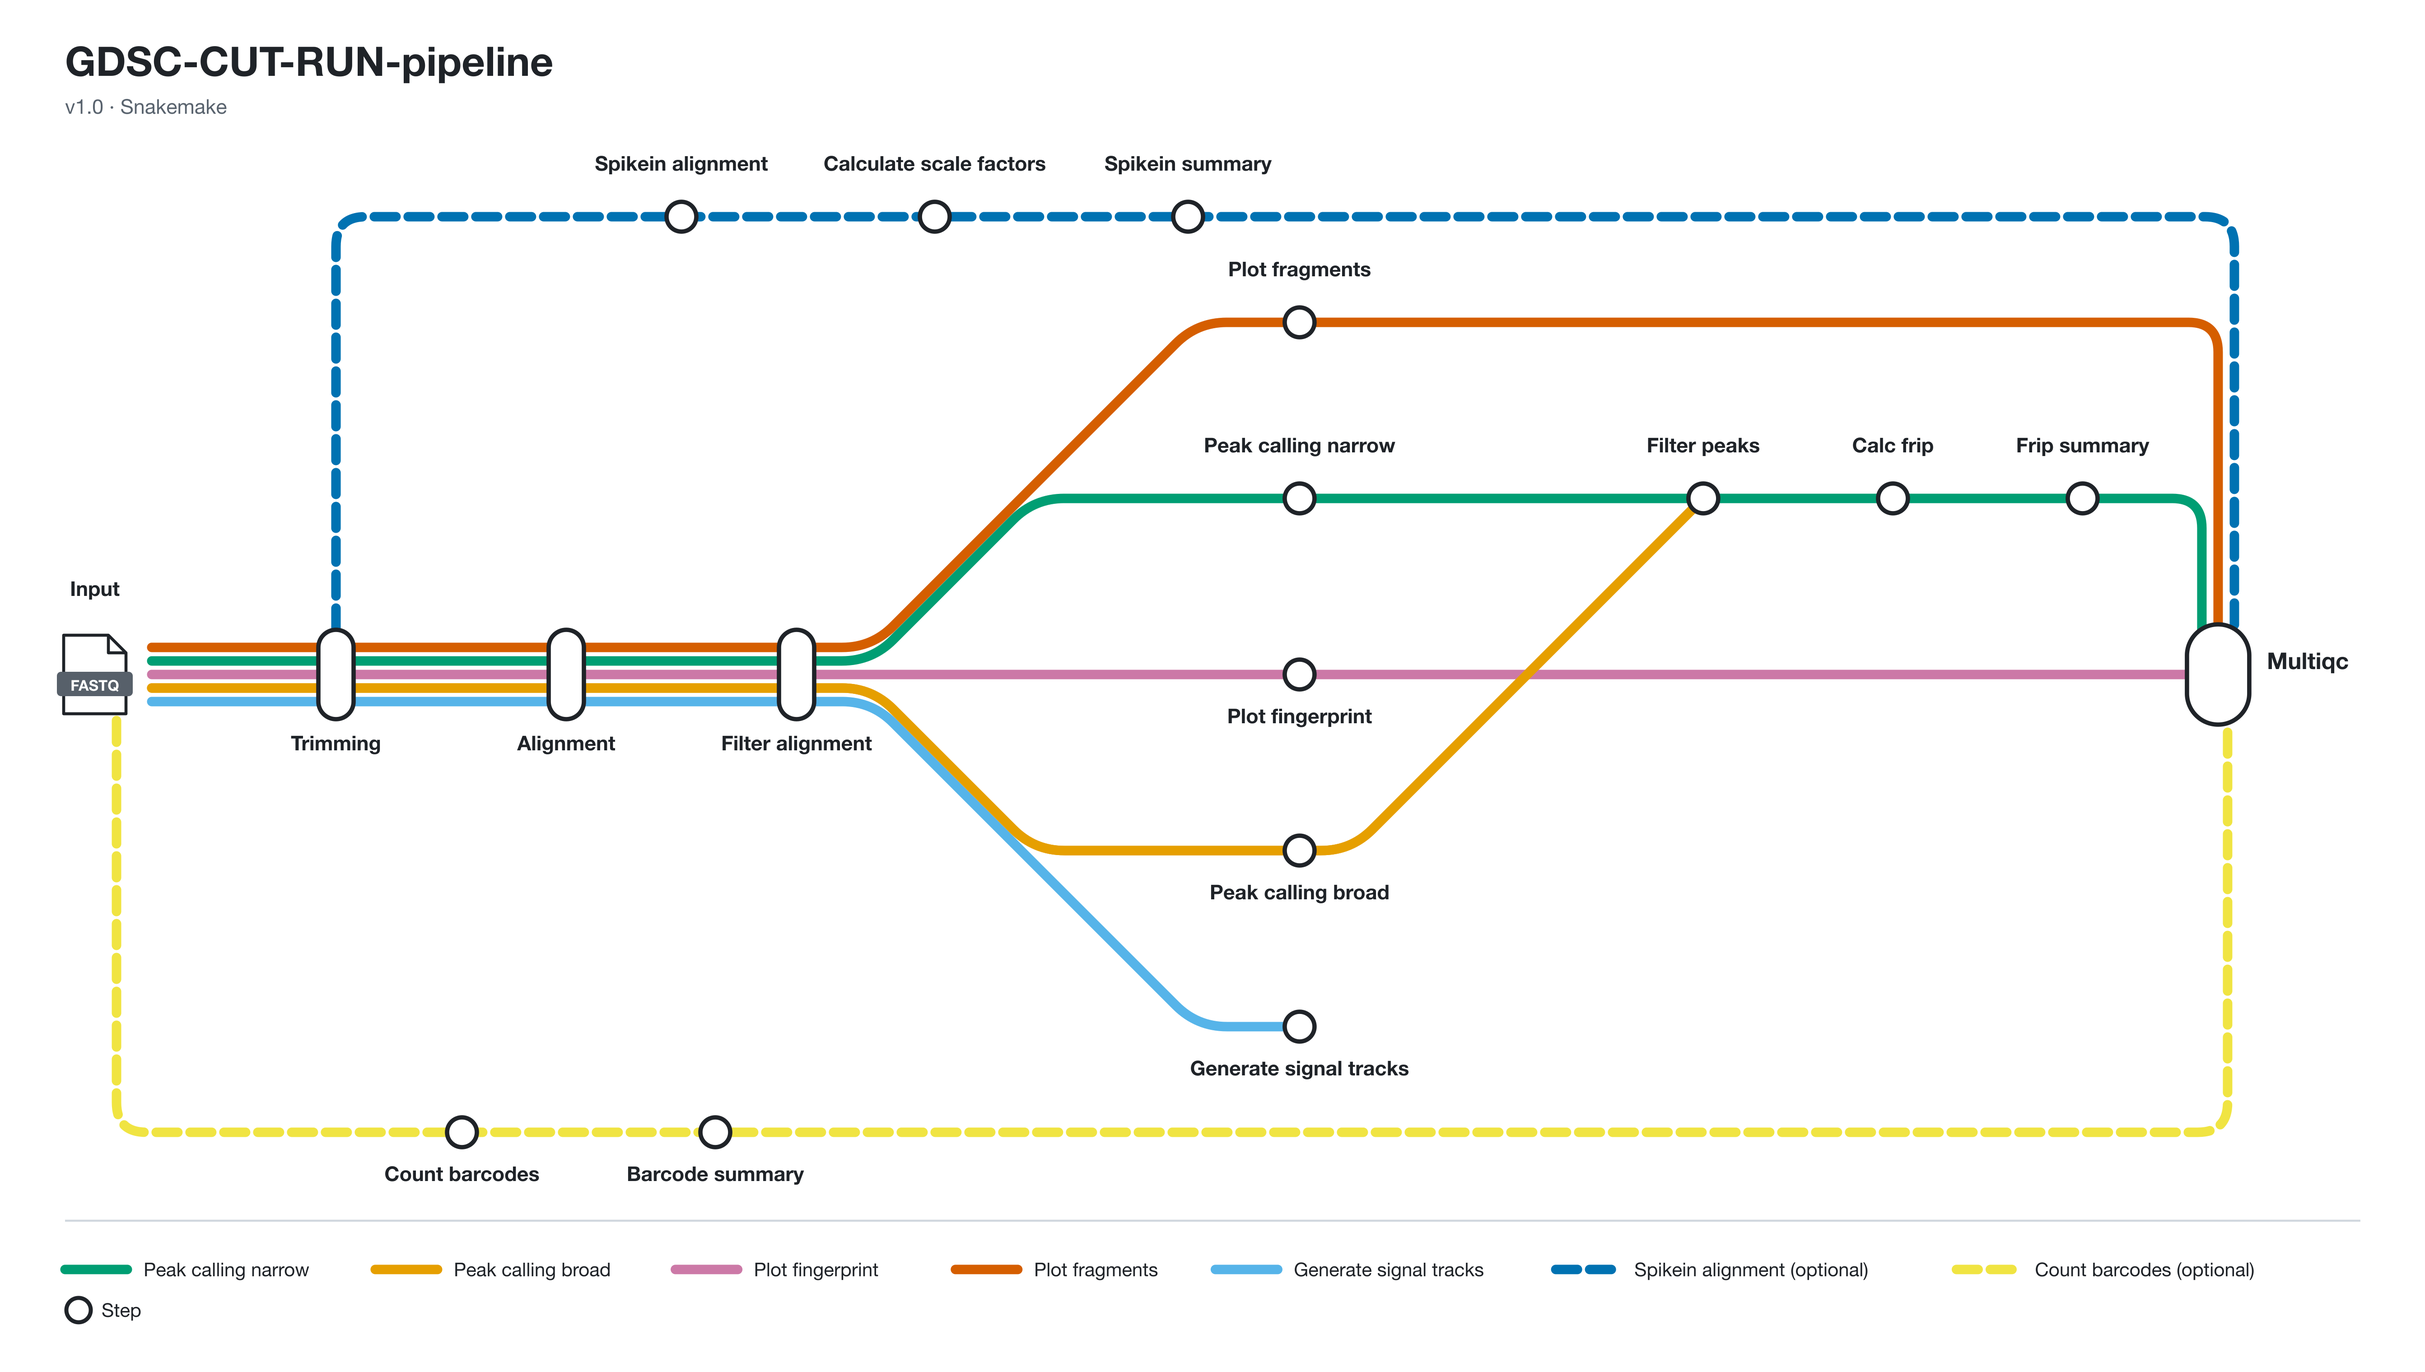
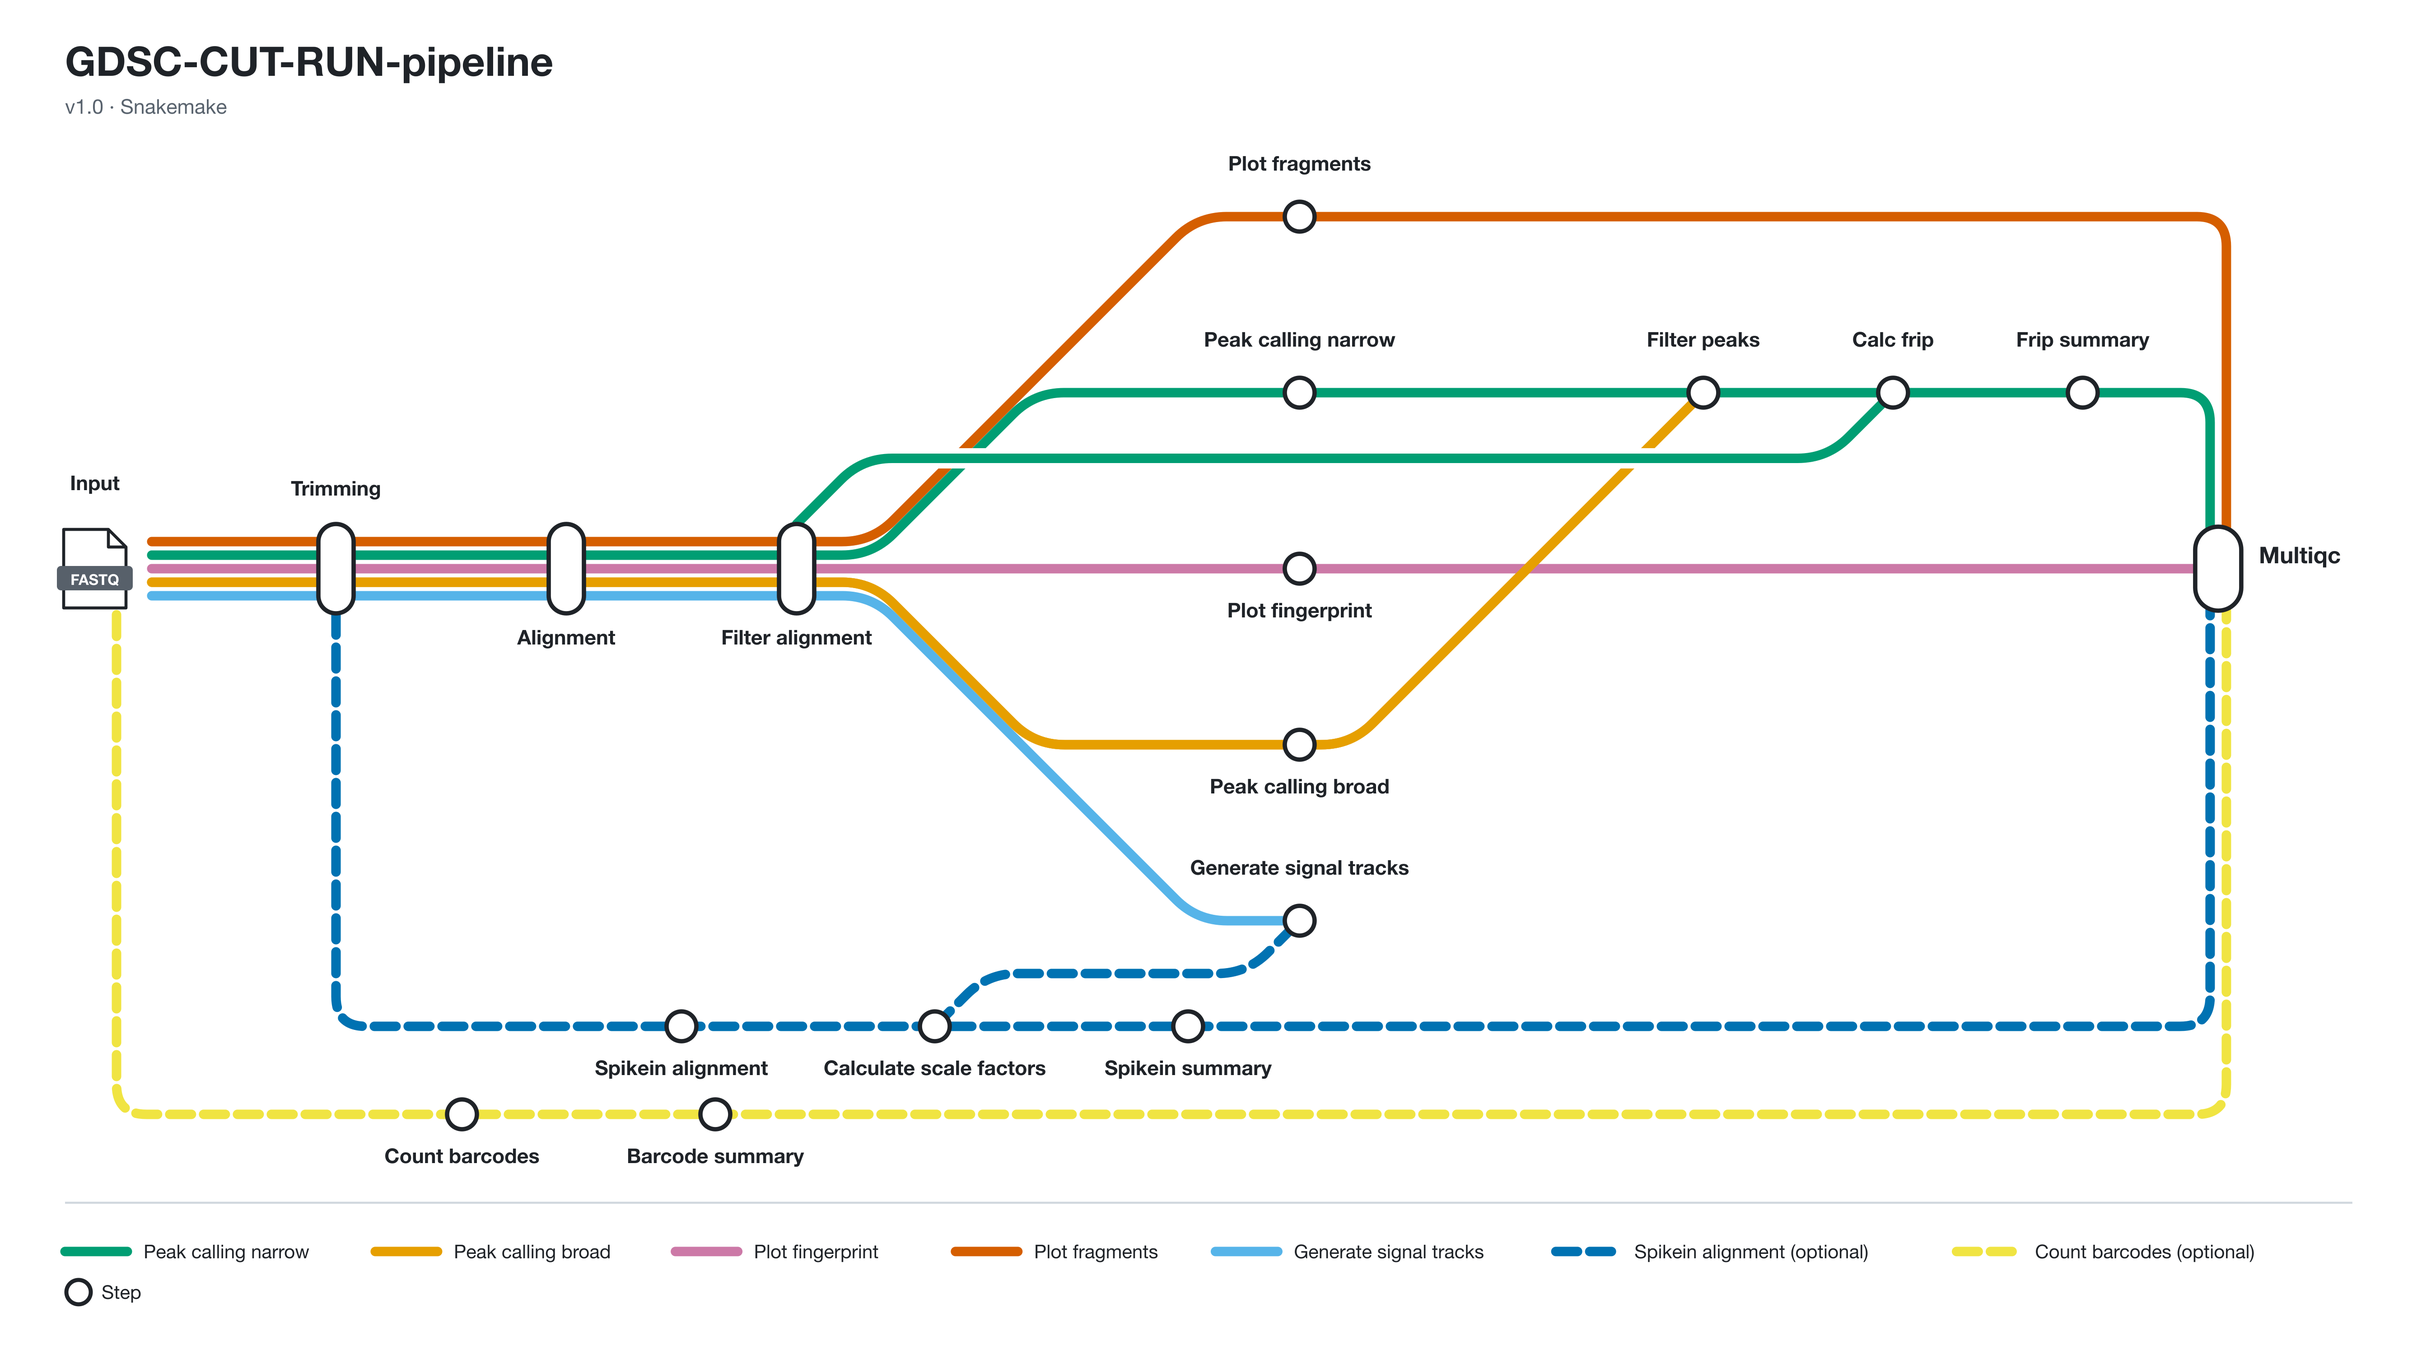
rules with same endpoints

diff --git a/slitherflow.py b/slitherflow.py
@@ -39,6 +39,7 @@ STYLE = {
 LABEL_OFFSET = 34            # station centre -> station name baseline
 TOOL_OFFSET = 17             # station name -> tool line
 ICON_W, ICON_H = 46, 58
+FEED_LANE = 90               # shortest straight run of a `feeds:` connector between its two bends
 
 
 def text_width(s, size, bold=False):
@@ -74,12 +75,13 @@ class Canvas:
                         f'font-weight="{"700" if bold else "400"}" fill="{fill or self.s["ink"]}" '
                         f'text-anchor="{anchor}">{escape(s)}</text>')
 
-    def polyline(self, pts, color, desc, dashed=False, casing=False, radius=None, casing_skip=0):
+    def polyline(self, pts, color, desc, dashed=False, casing=False, radius=None, casing_skip=0, casing_pts=None):
         r = self.s["corner"] if radius is None else radius
         d = rounded_path(pts, r)
         lw = self.s["line_width"]
-        if casing and len(pts) - casing_skip >= 2:  # white halo so crossings read as a bridge
-            self.out.append(f'<path d="{rounded_path(pts[casing_skip:], r)}" fill="none" stroke="#ffffff" stroke-width="{lw + 8}" '
+        cpts = casing_pts if casing_pts is not None else pts[casing_skip:]
+        if casing and len(cpts) >= 2:  # white halo so crossings read as a bridge
+            self.out.append(f'<path d="{rounded_path(cpts, r)}" fill="none" stroke="#ffffff" stroke-width="{lw + 8}" '
                             f'stroke-linecap="round" stroke-linejoin="round"/>')
         da = f' stroke-dasharray="{self.s["dash"]}"' if dashed else ""
         self.out.append(f'<path d="{d}" fill="none" stroke="{color}" stroke-width="{lw}" '
@@ -135,6 +137,23 @@ def rounded_path(pts, r):
         d += f" L{ax:.1f},{ay:.1f} Q{x1:.1f},{y1:.1f} {bx:.1f},{by:.1f}"
     d += f" L{pts[-1][0]:.1f},{pts[-1][1]:.1f}"
     return d
+
+
+def trim_path(pts, a, b):
+    """pts with length a cut off the start and length b off the end."""
+    def cut(p, d):
+        p = list(p)
+        while len(p) > 1 and d > 0:
+            (x0, y0), (x1, y1) = p[0], p[1]
+            seg = math.hypot(x1 - x0, y1 - y0)
+            if seg <= d:
+                p.pop(0)
+                d -= seg
+            else:
+                p[0] = (x0 + (x1 - x0) * d / seg, y0 + (y1 - y0) * d / seg)
+                d = 0
+        return p
+    return cut(cut(pts, a)[::-1], b)[::-1]
 
 
 def wrap_words(s, max_chars):
@@ -271,6 +290,9 @@ def render(spec):
                     for l in trunk_lines if lines[l]["stations"]]
     branch_start = split_x + widest_bend + trunk.get("branch_gap", max([60] + [h - 20 for h in first_labels]))
     side_lines = [l for l, ln in lines.items() if ln["from"] != "trunk" and not is_branch(ln)] + branch_order
+    # stations whose output also goes to a station on another line: (line id or 'trunk', station)
+    feeders = ([("trunk", st) for st in trunk_stations if st.get("feeds")]
+               + [(lid, st) for lid, ln in lines.items() for st in ln["stations"] if st.get("feeds")])
 
     # Place every line, then push right any automatically placed station that a joining line would otherwise
     # reach from behind, and place again (a push also moves the stations after it and the branches leaving them).
@@ -323,6 +345,16 @@ def render(spec):
             if target["_x"] < need - 0.5:
                 target["_push"] = target.get("_push", 0) + need - target["_x"]
                 pushed = True
+        for src, st in feeders:                             # feeds need room for both 45-degree legs
+            x1, y1 = pos[(src, st["name"])]
+            for ref in st["feeds"]:
+                target = station_of(ref.get("line"), ref.get("station"))
+                if target is None or "x" in target:
+                    continue
+                need = x1 + abs(target["_y"] - y1) + FEED_LANE
+                if target["_x"] < need - 0.5:
+                    target["_push"] = target.get("_push", 0) + need - target["_x"]
+                    pushed = True
         if not pushed:
             break
 
@@ -382,6 +414,40 @@ def render(spec):
         else:
             pts.append((last_x, ry))
 
+    # ---- feeds: leave the station at 45 degrees, run along a lane, drop into the target at 45 degrees ----
+    feeds = []            # (points, colour, dashed, id)
+    touching = {}         # station key -> ids of feeds that start or end there (for the overlap check)
+    feed_ys = {}          # station key -> y the feed heads towards right next to the station (for label sides)
+    for src, st in feeders:
+        x1, y1 = pos[(src, st["name"])]
+        for ref in st["feeds"]:
+            if not isinstance(ref, dict) or station_of(ref.get("line"), ref.get("station")) is None:
+                sys.exit(f"station '{st['name']}': feeds {ref} does not name a station on another line "
+                         f"(use {{line: <id>, station: <name>}})")
+            tkey = (ref["line"], ref["station"])
+            x2, y2 = pos[tkey]
+            if x2 <= x1 + 1:
+                sys.exit(f"station '{st['name']}' feeds '{ref['station']}', which is not to its right; "
+                         f"move one of them (x:)")
+            sgn = 1 if y2 > y1 else -1
+            sy = y1 if src != "trunk" else ((trunk_bot + 13) if y2 > y0 else (trunk_top - 13))
+            dy = abs(y2 - sy)
+            d_in = min(rh / 2, dy / 2)
+            d_out = dy - d_in
+            if d_out + d_in + 2 * s["corner"] > x2 - x1:   # no room for a clean lane (fixed x): go straight
+                pts = [(x1, sy), (x2, y2)]
+            else:
+                pts = [(x1, sy), (x1 + d_out, sy + sgn * d_out), (x2 - d_in, y2 - sgn * d_in), (x2, y2)]
+            if src == "trunk":                       # the trunk has many colours: use the receiving line's
+                color, dashed = lines[ref["line"]]["color"], bool(lines[ref["line"]].get("optional"))
+            else:
+                color, dashed = lines[src]["color"], bool(lines[src].get("optional"))
+            fid = f"feed '{st['name']}' -> '{ref['station']}'"
+            feeds.append((pts, color, dashed, fid))
+            for key, y in (((src, st["name"]), pts[1][1]), (tkey, pts[-2][1])):
+                touching.setdefault(key, []).append(fid)
+                feed_ys.setdefault(key, []).append(y)
+
     # ---- draw: title ----
     if spec.get("title"):
         cv.text(m, 56, spec["title"], 30, True, anchor="start")
@@ -398,6 +464,8 @@ def render(spec):
         # a branch's halo starts after its first bend, so it doesn't cut into the line it leaves
         cv.polyline(geo[lid], ln["color"], lid, dashed=bool(ln.get("optional")),
                     casing=bool(ln.get("_casing")) and ln["from"] != "trunk", casing_skip=1 if is_branch(ln) else 0)
+    for pts, color, dashed, fid in feeds:   # drawn last, bridged over everything they cross
+        cv.polyline(pts, color, fid, dashed=dashed, casing=True, casing_pts=trim_path(pts, 18, 18))
 
     # ---- draw: stations + labels ----
     def label(x, y, st, above):
@@ -421,9 +489,11 @@ def render(spec):
         above = trunk_above
         if "label" in st:
             above = st["label"] == "above"
-        elif any((row_y(lines[l]["row"]) < y0) == above for l in leaving):
+        elif (any((row_y(lines[l]["row"]) < y0) == above for l in leaving)
+              or any((y < y0) == above for y in feed_ys.get(("trunk", st["name"]), []))):
             above = not above
-        cv.pill(x, trunk_top, trunk_bot, trunk_lines + leaving, desc=f"station '{st['name']}'")
+        cv.pill(x, trunk_top, trunk_bot, trunk_lines + leaving + touching.get(("trunk", st["name"]), []),
+                desc=f"station '{st['name']}'")
         label(x, trunk_top if above else trunk_bot, st, above)
 
     for lid, ln in lines.items():
@@ -431,12 +501,13 @@ def render(spec):
             key = (lid, st["name"])
             joiners = [l for l, o in lines.items() if o.get("_joins") == key]
             leavers = [l for l, o in lines.items() if is_branch(o) and (o["from"]["line"], o["from"]["station"]) == key]
-            cv.station(st["_x"], st["_y"], {lid, *joiners, *leavers}, st.get("optional", False),
-                       desc=f"station '{st['name']}'")
+            cv.station(st["_x"], st["_y"], {lid, *joiners, *leavers, *touching.get(key, [])},
+                       st.get("optional", False), desc=f"station '{st['name']}'")
             above = st["_y"] < y0 - 0.5
             if "label" in st:
                 above = st["label"] == "above"
-            elif any((row_y(lines[j]["row"]) < st["_y"]) == above for j in joiners + leavers):
+            elif (any((row_y(lines[j]["row"]) < st["_y"]) == above for j in joiners + leavers)
+                  or any((y < st["_y"]) == above for y in feed_ys.get(key, []))):
                 above = not above
             st["_label_above"] = above
             st["_joined_above"] = any(row_y(lines[j]["row"]) < st["_y"] for j in joiners)
@@ -719,7 +790,7 @@ def spec_from_rulegraph(dot_text, title="My pipeline"):
         for i in c:
             assigned[i] = (lid, None)
         lines[lid] = {"name": pretty(rules[c[0]]), "row": row_cycle[len(lines) % len(row_cycle)], "_chain": c,
-                      "_start": depth[hub]}
+                      "_start": depth[hub], "_origin": hub}
     for t in trunk[:-1]:
         for j in S[t]:
             if j in assigned:
@@ -729,7 +800,7 @@ def spec_from_rulegraph(dot_text, title="My pipeline"):
             for i in c:
                 assigned[i] = (lid, None)
             lines[lid] = {"name": pretty(rules[c[0]]), "from": pretty(rules[t]), "optional": True, "_chain": c,
-                          "_start": depth[t]}
+                          "_start": depth[t], "_origin": t}
     for src in sources:
         if src in assigned:
             continue
@@ -737,7 +808,7 @@ def spec_from_rulegraph(dot_text, title="My pipeline"):
         lid = f"side{len(lines) + 1}"
         for i in c:
             assigned[i] = (lid, None)
-        lines[lid] = {"name": pretty(rules[c[0]]), "from": "input", "optional": True, "_chain": c, "_start": -1}
+        lines[lid] = {"name": pretty(rules[c[0]]), "from": "input", "optional": True, "_chain": c, "_start": -1, "_origin": None}
     # every rule still unplaced branches off the station of its latest placed input
     for j in order:
         if j in assigned:
@@ -751,7 +822,7 @@ def spec_from_rulegraph(dot_text, title="My pipeline"):
             assigned[i] = (lid, None)
         par = assigned[p][0]
         frm = pretty(rules[p]) if par == "trunk" else {"line": par, "station": pretty(rules[p])}
-        lines[lid] = {"name": pretty(rules[c[0]]), "from": frm, "_chain": c, "_start": depth[p]}
+        lines[lid] = {"name": pretty(rules[c[0]]), "from": frm, "_chain": c, "_start": depth[p], "_origin": p}
     end_depth = max(depth.values(), default=0) + 1
     for lid, ln in lines.items():
         ln["to"] = to = tail_target(ln["_chain"], lid)
@@ -761,7 +832,21 @@ def spec_from_rulegraph(dot_text, title="My pipeline"):
         elif isinstance(to, dict):
             end = max([end] + [depth[j] for j in S[ln["_chain"][-1]] if assigned[j][0] == to["line"]])
         ln["_end"] = end
-    # side-line rows: just outside the line they join; otherwise outside all main lines (above, then below)
+    # connections the lines already show; every other one (except inputs to the terminus) becomes a `feeds:`
+    drawn = set(zip(trunk, trunk[1:]))
+    for ln in lines.values():
+        c = ln["_chain"]
+        drawn |= set(zip(c, c[1:]))
+        if ln["_origin"] is not None:
+            drawn.add((ln["_origin"], c[0]))
+        to = ln["to"]
+        if isinstance(to, dict):
+            drawn |= {(c[-1], j) for j in S[c[-1]] if assigned.get(j) and assigned[j][0] == to["line"]
+                      and pretty(rules[j]) == to["station"]}
+    feeds = {i: [j for j in S[i] if (i, j) not in drawn and assigned.get(j) and assigned[j][0] != "trunk"]
+             for i in nodes if i in assigned}
+    # side-line rows: just outside the line they join; otherwise outside all main lines on the side of the lines
+    # they feed, or alternating above and below
     main_rows = [ln["row"] for ln in lines.values() if "from" not in ln] or [0]
     used = set(main_rows)
     outside = max(abs(r) for r in main_rows) + 0.6
@@ -775,8 +860,14 @@ def spec_from_rulegraph(dot_text, title="My pipeline"):
             direction = 1 if base >= 0 else -1
             row = base + 0.6 * direction
         else:
-            direction = 1 if ln["from"] == "input" else flip
-            flip = -flip
+            fed = [lines[assigned[j][0]]["row"] for i in ln["_chain"] for j in feeds.get(i, [])
+                   if "row" in lines[assigned[j][0]]]
+            if fed:
+                direction = 1 if sum(fed) >= 0 else -1
+            elif ln["from"] == "input":
+                direction = 1
+            else:
+                direction, flip = flip, -flip
             row = outside * direction
         while round(row, 1) in used:
             row += 0.5 * direction
@@ -818,11 +909,19 @@ def spec_from_rulegraph(dot_text, title="My pipeline"):
            "",
            "trunk:                      # steps every sample goes through",
            "  stations:"]
-    out += [f"    - {{name: {q(pretty(rules[i]))}, tool: \"\"}}" for i in trunk]
+    ref = lambda v: q(v) if isinstance(v, str) else "{line: " + v["line"] + ", station: " + q(v["station"]) + "}"
+
+    def station(i):
+        extra = ""
+        if feeds.get(i):
+            extra = ", feeds: [" + ", ".join(ref({"line": assigned[j][0], "station": pretty(rules[j])})
+                                             for j in feeds[i]) + "]"
+        return f"{{name: {q(pretty(rules[i]))}, tool: \"\"{extra}}}"
+
+    out += [f"    - {station(i)}" for i in trunk]
     trunk_ids = sorted((l for l, v in lines.items() if "from" not in v), key=lambda l: lines[l]["row"])
     out += ["  lines: [" + ", ".join(trunk_ids) + "]   # top -> bottom on the trunk",
             "", "lines:"]
-    ref = lambda v: q(v) if isinstance(v, str) else "{line: " + v["line"] + ", station: " + q(v["station"]) + "}"
     for lid, ln in lines.items():
         branch = isinstance(ln.get("from"), dict)
         if branch:   # no name: it shares its parent's colour and legend entry
@@ -837,7 +936,7 @@ def spec_from_rulegraph(dot_text, title="My pipeline"):
             out.append("    optional: true         # dashed; delete if the step always runs")
         out.append(f"    to: {ref(ln['to'])}")
         out.append("    stations:")
-        out += [f"      - {{name: {q(pretty(rules[i]))}, tool: \"\"}}" for i in ln["_chain"]]
+        out += [f"      - {station(i)}" for i in ln["_chain"]]
     if term:
         feeding = [ln["row"] for ln in lines.values() if ln["to"] == "terminus" and "from" not in ln]
         trow = min(feeding, key=abs) if feeding else 0
